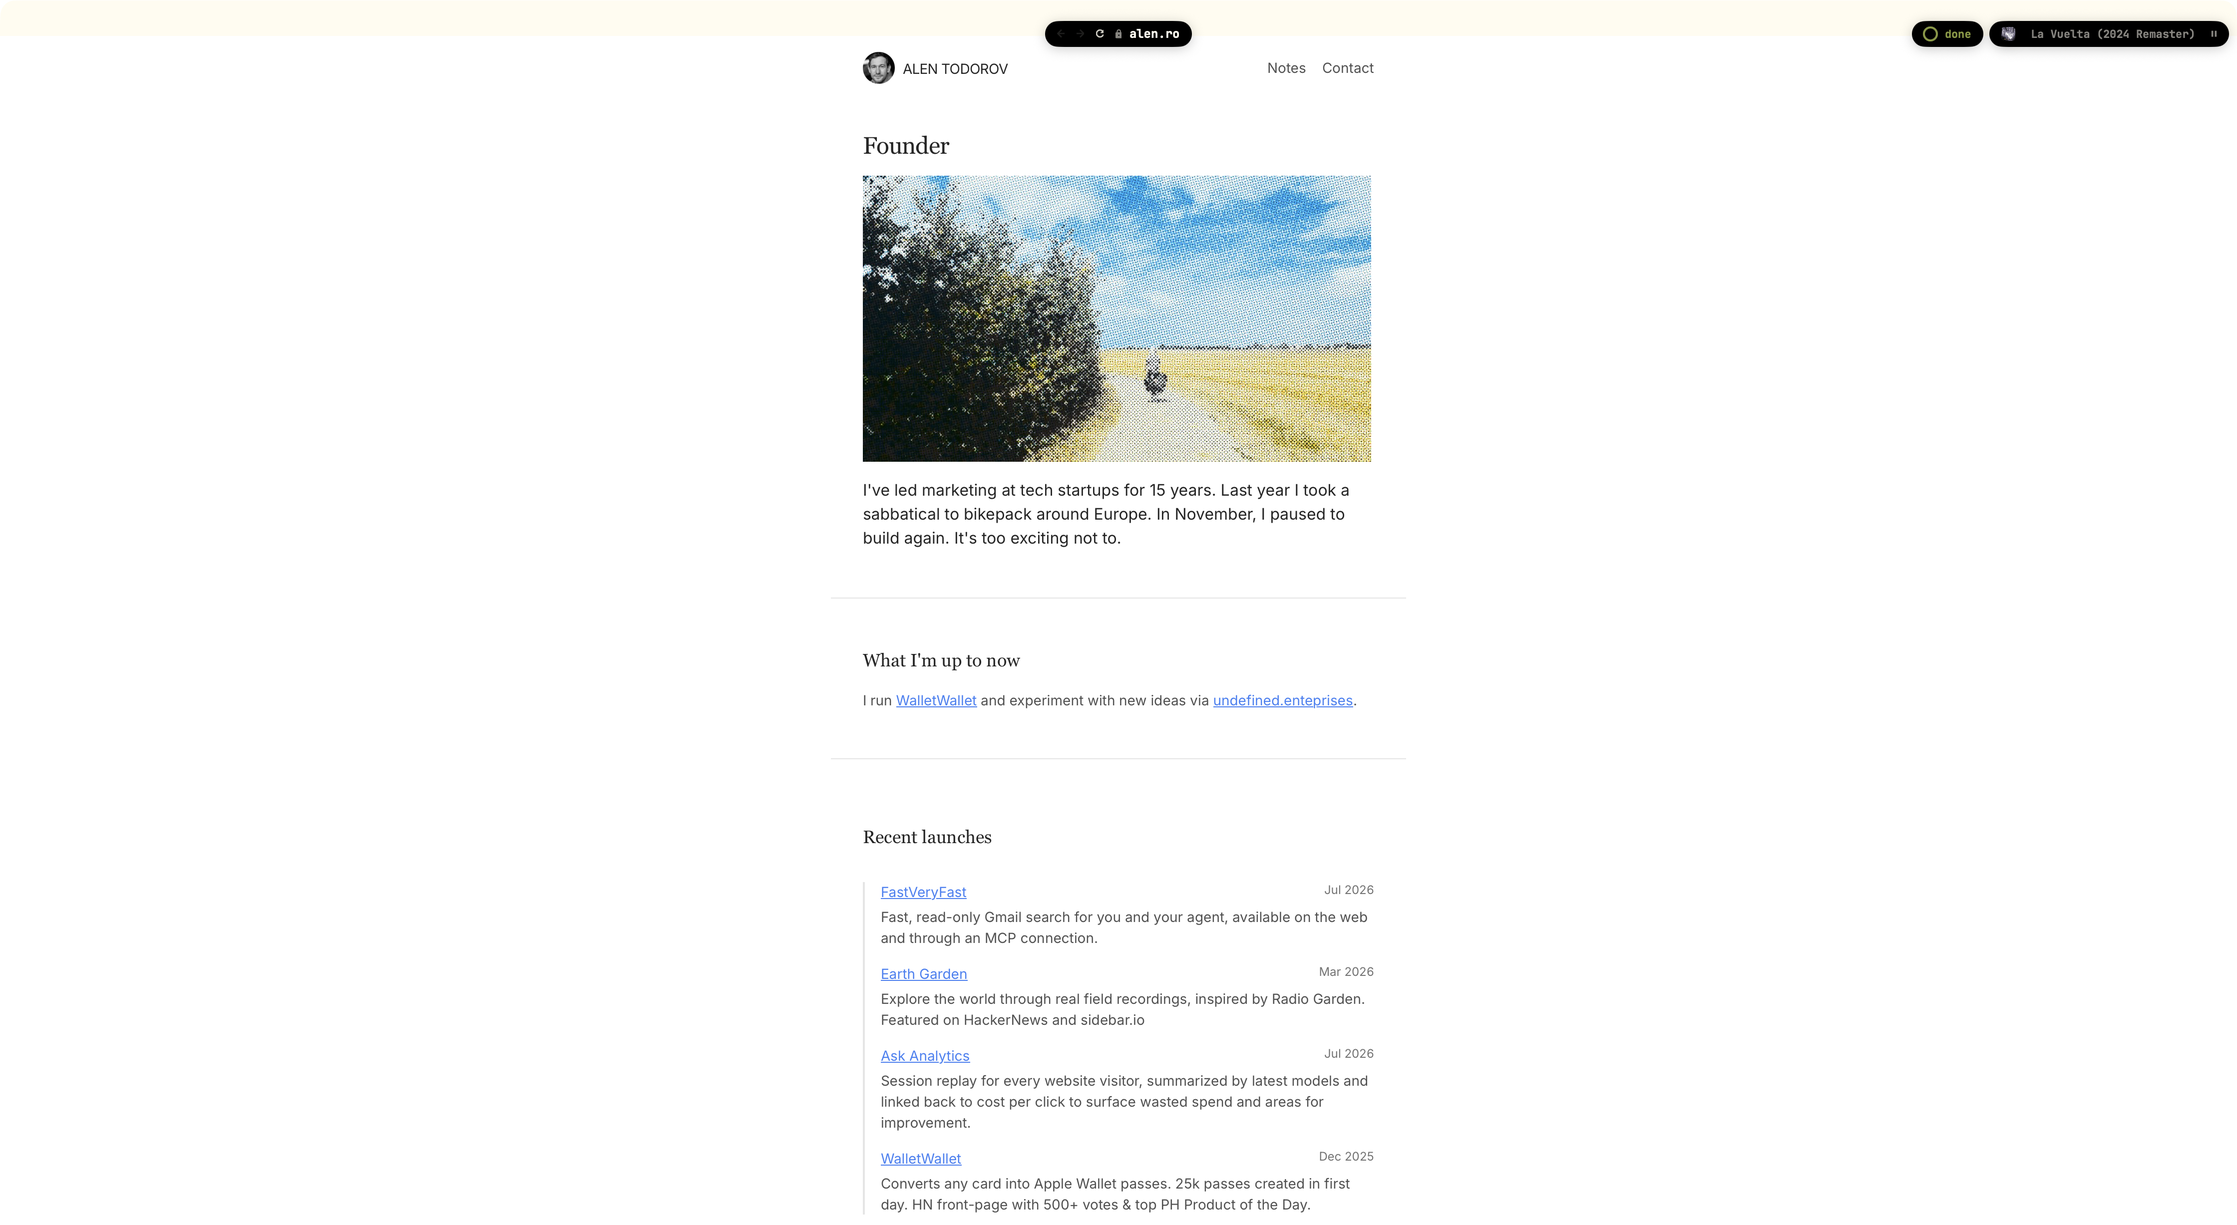
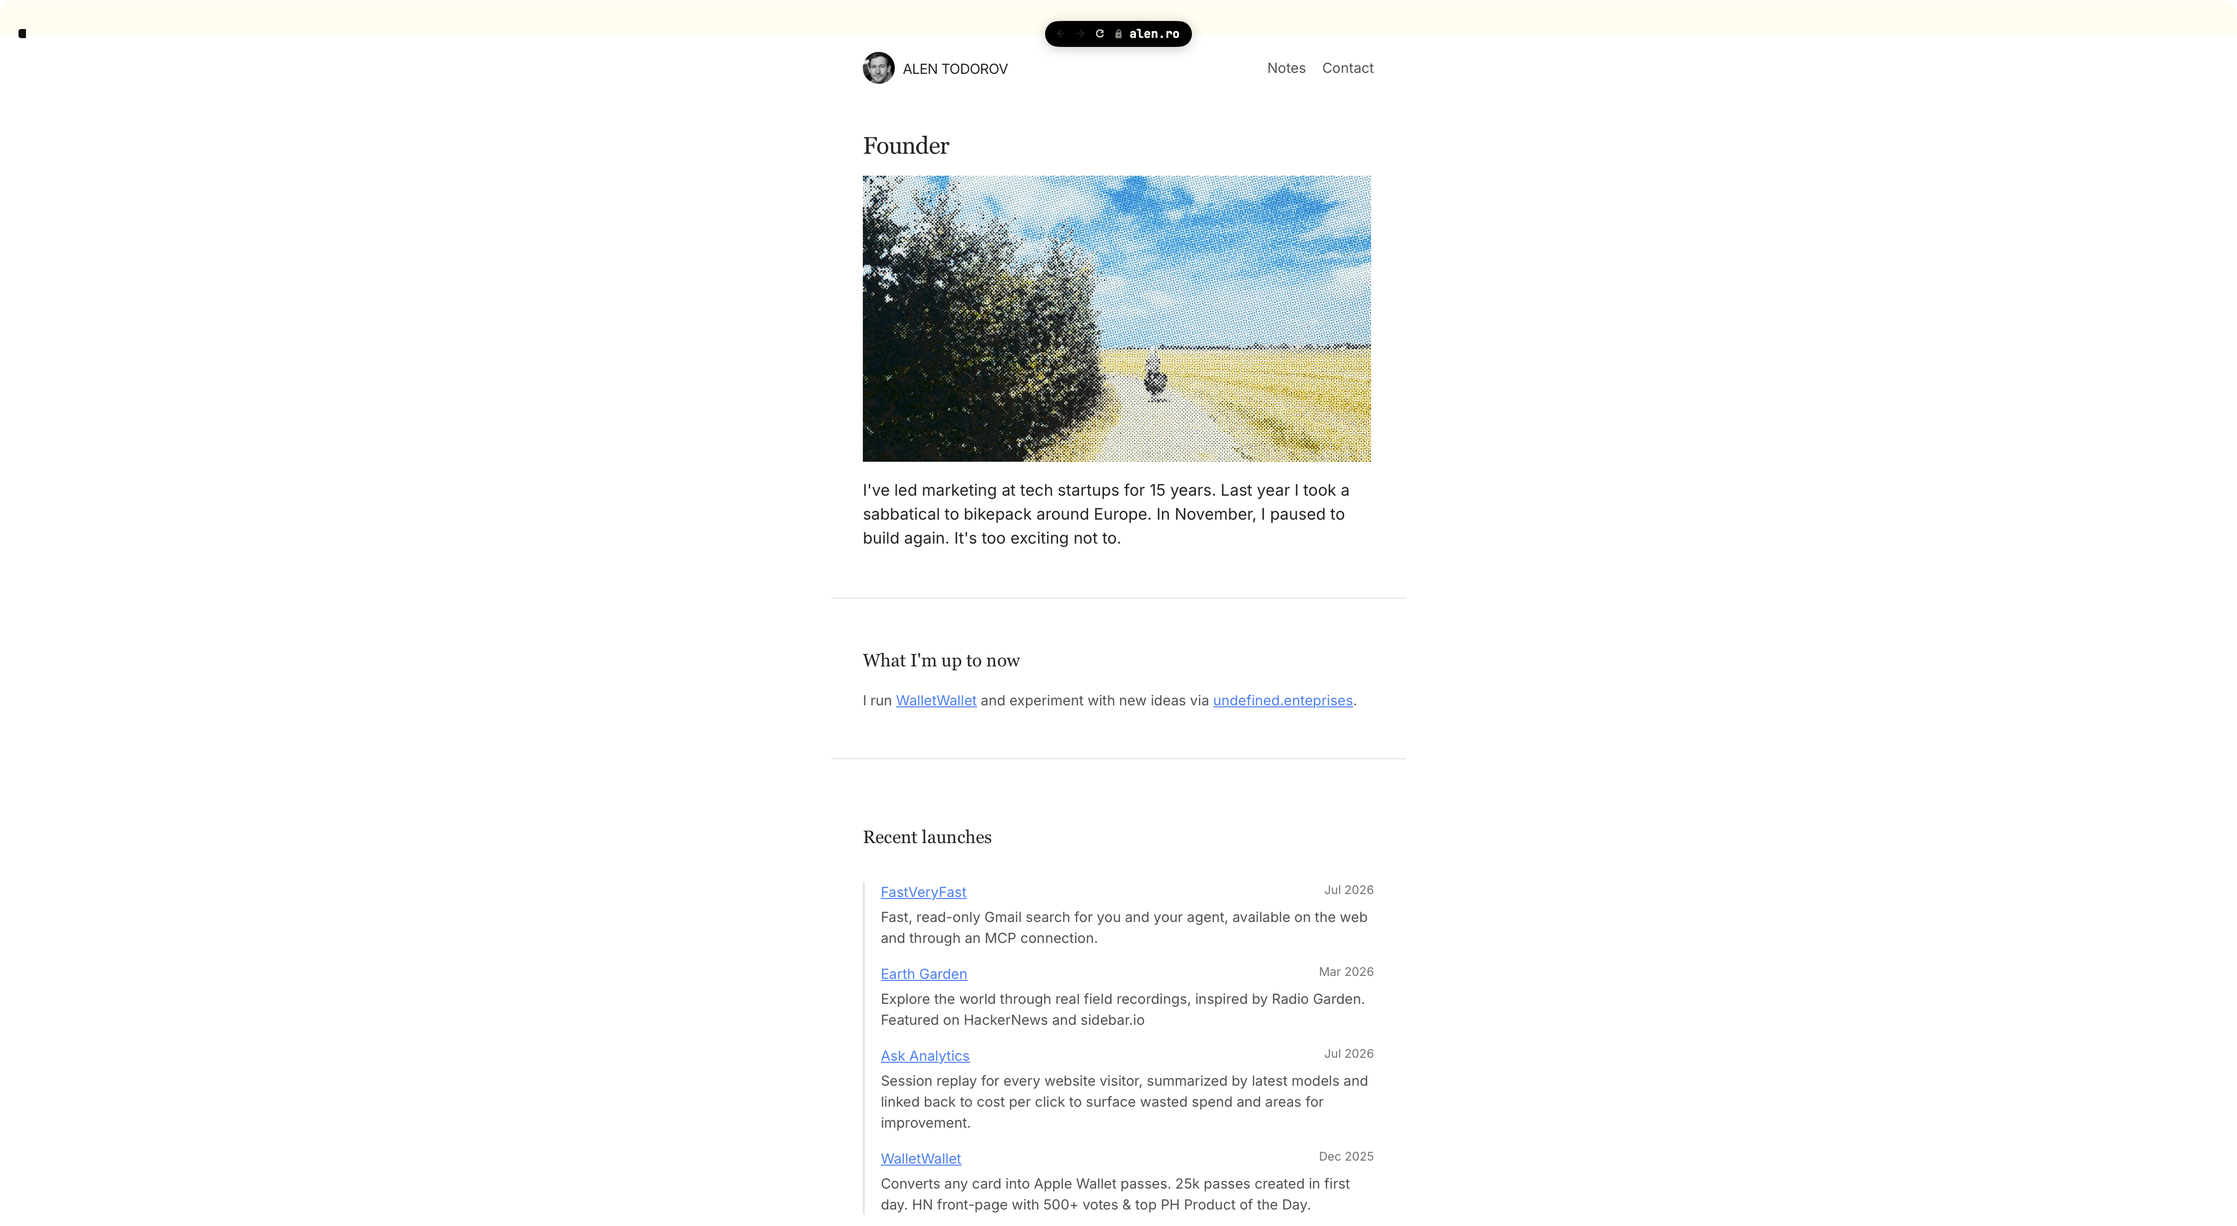
Drop the timer and now-playing pills; every window on AeroSpace workspace 8
Remove Live.swift (timer file and mpv IPC polling) and the two status pills,
leaving the download pill. New windows are moved to workspace 8 with focus
following and made fullscreen there (AppDelegate.place). Re-shot screenshots
01-04 and 15 for the tab numbers and the new placement; dropped the timer shots.
HANDOFF.md: git note, placement, the dark-page strip question.

diff --git a/src/main.swift b/src/main.swift
@@ -7,6 +7,8 @@ import WebKit
 @MainActor
 final class AppDelegate: NSObject, NSApplicationDelegate {
     static var shared: AppDelegate!
+    /// The AeroSpace workspace every Casa window lives on
+    static let workspace = "8"
     private(set) var windows: [BrowserWindow] = []
     private var pendingURLs: [URL] = []
     private var launched = false
@@ -17,7 +19,6 @@ final class AppDelegate: NSObject, NSApplicationDelegate {
         buildMenu()
         KeySwap.shared.start()   // physical Cmd is cmd again while Casa is in front
         _ = History.shared
-        _ = Live.shared
         if !pendingURLs.isEmpty {
             let w = newWindow(private: false, urls: pendingURLs)
             w.makeKeyAndOrderFront(nil)
@@ -56,7 +57,7 @@ final class AppDelegate: NSObject, NSApplicationDelegate {
     func newWindow(private isPrivate: Bool, urls: [URL]? = nil, frame: NSRect? = nil) -> BrowserWindow {
         let w = BrowserWindow(isPrivate: isPrivate, frame: frame)
         windows.append(w)
-        fullscreen(w)
+        place(w)
         if let urls, !urls.isEmpty {
             for u in urls { w.newTab(url: u, select: false) }
             w.select(0)
@@ -66,21 +67,19 @@ final class AppDelegate: NSObject, NSApplicationDelegate {
         return w
     }
 
-    /// Every window is fullscreen (AeroSpace's, so it stays on its workspace and alt-f still toggles
-    /// it). AeroSpace needs a moment to pick up a new window, so ask again if the first try was early.
-    private func fullscreen(_ w: BrowserWindow, attempt: Int = 0) {
+    /// Every window goes to workspace 8 (focus follows it, so SketchyBar and the screen switch too)
+    /// and is fullscreen there (AeroSpace's, so alt-f still toggles it). AeroSpace needs a moment to
+    /// pick up a new window, so ask again if the first try was early.
+    private func place(_ w: BrowserWindow, attempt: Int = 0) {
         DispatchQueue.main.asyncAfter(deadline: .now() + (attempt == 0 ? 0.4 : 0.8)) { [weak self, weak w] in
             guard let w else { return }
-            guard w.isVisible else { if attempt < 4 { self?.fullscreen(w, attempt: attempt + 1) }; return }
-            let p = Process()
-            p.executableURL = URL(fileURLWithPath: "/opt/homebrew/bin/aerospace")
-            p.arguments = ["fullscreen", "on", "--window-id", String(w.windowNumber)]
-            p.standardOutput = FileHandle.nullDevice
-            p.standardError = FileHandle.nullDevice
-            p.terminationHandler = { proc in
-                if proc.terminationStatus != 0, attempt < 4 { DispatchQueue.main.async { self?.fullscreen(w, attempt: attempt + 1) } }
+            guard w.isVisible else { if attempt < 4 { self?.place(w, attempt: attempt + 1) }; return }
+            let id = String(w.windowNumber)
+            let retry = { if attempt < 4 { self?.place(w, attempt: attempt + 1) } }
+            aerospace(["move-node-to-workspace", "--focus-follows-window", "--window-id", id, AppDelegate.workspace]) { ok in
+                guard ok else { retry(); return }
+                aerospace(["fullscreen", "on", "--window-id", id]) { ok in if !ok { retry() } }
             }
-            try? p.run()
         }
     }
 
@@ -275,6 +274,21 @@ final class AppDelegate: NSObject, NSApplicationDelegate {
         default: NSLog("Casa debug: unknown %@", cmd)
         }
     }
+}
+
+/// Runs an AeroSpace command and reports on the main thread whether it succeeded
+@MainActor
+func aerospace(_ args: [String], done: @escaping @MainActor (Bool) -> Void) {
+    let p = Process()
+    p.executableURL = URL(fileURLWithPath: "/opt/homebrew/bin/aerospace")
+    p.arguments = args
+    p.standardOutput = FileHandle.nullDevice
+    p.standardError = FileHandle.nullDevice
+    p.terminationHandler = { proc in
+        let ok = proc.terminationStatus == 0
+        DispatchQueue.main.async { MainActor.assumeIsolated { done(ok) } }
+    }
+    do { try p.run() } catch { done(false) }
 }
 
 MainActor.assumeIsolated {

diff --git a/src/Chrome.swift b/src/Chrome.swift
@@ -1,25 +1,10 @@
 // The chrome, in SwiftUI: the pill (host, tab count; back / forward / reload on hover), the find
-// field in its place, the timer / now-playing / download pills on the right, and the overlays:
+// field in its place, the download pill on the right, and the overlays:
 // the palette (one search over tabs, history, URLs and commands) and the tab switcher.
 import AppKit
 import SwiftUI
 
 // MARK: Pieces
-
-struct MiniRing: View {
-    var fraction: Double
-    var size: CGFloat = 13
-    var color: Color = Theme.paper
-    var track: Color = Theme.paper.opacity(0.2)
-    var body: some View {
-        ZStack {
-            Circle().stroke(track, lineWidth: 2)
-            Circle().trim(from: 0, to: max(0, min(1, fraction)))
-                .stroke(color, style: StrokeStyle(lineWidth: 2, lineCap: .round))
-                .rotationEffect(.degrees(-90))
-        }.frame(width: size, height: size)
-    }
-}
 
 struct Tile: View {
     let host: String
@@ -112,11 +97,10 @@ struct KeyField: NSViewRepresentable {
     }
 }
 
-// MARK: The strip: pill in the middle, status pills on the right
+// MARK: The strip: pill in the middle, the download pill on the right
 
 struct StripView: View {
     @ObservedObject var state: WindowState
-    @ObservedObject var live = Live.shared
 
     var body: some View {
         GeometryReader { geo in
@@ -139,7 +123,7 @@ struct StripView: View {
                         .padding(.top, 5).padding(.leading, 12)
                         .frame(maxWidth: .infinity, alignment: .leading)
                 }
-                StatusPills(state: state, live: live, narrow: narrow)
+                StatusPills(state: state, narrow: narrow)
                     .padding(.top, 5).padding(.trailing, 8)
                     .frame(maxWidth: .infinity, alignment: .trailing)
             }
@@ -257,7 +241,6 @@ struct FindPill: View {
 
 struct StatusPills: View {
     @ObservedObject var state: WindowState
-    @ObservedObject var live: Live
     let narrow: Bool
 
     var body: some View {
@@ -269,26 +252,6 @@ struct StatusPills: View {
                     if !narrow { Text(d.name).font(Theme.mono(11)).foregroundStyle(Theme.paper).lineLimit(1).frame(maxWidth: 160) }
                 }
                 .onTapGesture { state.window?.revealDownload() }
-            }
-            if let t = live.timer {
-                BlackPill {
-                    MiniRing(fraction: t.fraction, color: t.done ? Theme.green : t.paused ? Theme.grey : Theme.paper)
-                    Text(t.done ? "done" : clockString(t.left)).font(Theme.mono(11)).monospacedDigit()
-                        .foregroundStyle(t.done ? Theme.green : t.paused ? Theme.grey : Theme.paper)
-                }
-            }
-            if let m = live.music {
-                BlackPill {
-                    if let c = live.cover {
-                        Image(nsImage: c).resizable().aspectRatio(contentMode: .fill)
-                            .frame(width: 14, height: 14).clipShape(RoundedRectangle(cornerRadius: 3))
-                    } else {
-                        Text(Theme.music).font(Theme.mono(11)).foregroundStyle(Theme.grey)
-                    }
-                    if !narrow { Text(m.title).font(Theme.mono(11)).foregroundStyle(m.paused ? Theme.grey : Theme.paper).lineLimit(1).frame(maxWidth: 180) }
-                    if m.paused { Text(Theme.pause).font(Theme.mono(10)).foregroundStyle(Theme.grey) }
-                }
-                .onTapGesture { live.togglePause() }
             }
         }
     }

diff --git a/src/Theme.swift b/src/Theme.swift
@@ -33,9 +33,9 @@ enum Theme {
 
     /// Nerd Font (Material Design) glyphs
     static let lock = "\u{F033E}", search = "\u{F0349}", back = "\u{F004D}", forward = "\u{F0054}", reload = "\u{F0450}"
-    static let play = "\u{F040A}", pause = "\u{F03E4}", close = "\u{F0156}", chevronLeft = "\u{F0141}", chevronRight = "\u{F0142}"
+    static let close = "\u{F0156}", chevronLeft = "\u{F0141}", chevronRight = "\u{F0142}"
     static let history = "\u{F02DA}", web = "\u{F059F}", tab = "\u{F0B4A}", download = "\u{F01DA}", incognito = "\u{F02FA}"
-    static let command = "\u{F0633}", music = "\u{F0387}", terminal = "\u{F0489}", stop = "\u{F04DB}"
+    static let command = "\u{F0633}", terminal = "\u{F0489}", stop = "\u{F04DB}"
 
     /// A stable colour for a host, for the letter tiles that stand in for favicons
     static func tileColor(for host: String) -> Color {
@@ -54,19 +54,10 @@ enum Paths {
     static let zoom = state + "/zoom.json"
     static let downloads = home + "/Downloads"
     static let projects = home + "/projects"
-    static let mpvSocket = home + "/.local/state/yt/mpv.sock"
-    static let tracks = home + "/.local/state/yt/tracks.json"
-    static let timer = home + "/.local/state/timer/current.json"
 
     static func ensureState() {
         try? FileManager.default.createDirectory(atPath: state, withIntermediateDirectories: true)
     }
-}
-
-/// "3:05" or "1:02:14"
-func clockString(_ t: Double) -> String {
-    let s = Int(t.rounded(.up))
-    return s >= 3600 ? String(format: "%d:%02d:%02d", s / 3600, s / 60 % 60, s % 60) : String(format: "%d:%02d", s / 60, s % 60)
 }
 
 /// The host as the pill shows it: no "www."

diff --git a/HANDOFF.md b/HANDOFF.md
@@ -9,9 +9,10 @@ commit and push only when told. The app builds to `~/Applications/Casa.app`, bun
 Design **direction A, "Notch"**: no chrome except what floats in the page's top 36pt strip
 (`WKWebView.obscuredContentInsets`, macOS 26): a black pill at the top centre with lock, host and
 `3/7`; hover widens it to back / forward / reload and the path; cmd-L turns it into the palette, cmd-F
-into find. Tab numbers sit top-left in SketchyBar's workspace style. Timer and now-playing pills sit top
-right, only while live. Tabs are keyboard-first; ctrl-tab held shows the switcher. One window = one tab
-group; every window is AeroSpace-fullscreen on its workspace. A libghostty console (zsh) slides up as a
+into find. Tab numbers sit top-left in SketchyBar's workspace style. A download pill sits top right
+while a download runs. (The timer and now-playing pills from the mockups were dropped on 2026-11-09;
+the mockups still show them.) Tabs are keyboard-first; ctrl-tab held shows the switcher. One window = one tab
+group; every window is moved to AeroSpace workspace 8 and made fullscreen there (focus follows it). A libghostty console (zsh) slides up as a
 split under the page on cmd-J / cmd-enter / ctrl-`. Calm and useful; nothing "fun but pointless".
 
 - `PLAN.md` — the three directions, the chosen one, keyboard map, v1 / later.
@@ -22,13 +23,12 @@ split under the page on cmd-J / cmd-enter / ctrl-`. Calm and useful; nothing "fu
 
 | file | what |
 |---|---|
-| `main.swift` | `AppDelegate`: windows, the whole menu (every shortcut lives here), session save/restore, URL open (http/https registered in Info.plist but Casa is **not** set as default browser), `fullscreen(_:)` (runs `/opt/homebrew/bin/aerospace fullscreen on --window-id N` for each new window, 4 retries), the `CASA_DEBUG` channel. Starts `KeySwap`. |
+| `main.swift` | `AppDelegate`: windows, the whole menu (every shortcut lives here), session save/restore, URL open (http/https registered in Info.plist but Casa is **not** set as default browser), `place(_:)` (runs `aerospace move-node-to-workspace --focus-follows-window --window-id N 8` then `aerospace fullscreen on --window-id N` for each new window, 4 retries; `AppDelegate.workspace` is the "8"), the `CASA_DEBUG` channel. Starts `KeySwap`. |
 | `KeySwap.swift` | CGEvent tap (`.cghidEventTap`, head insert) active only while Casa is frontmost. Alen's Karabiner swaps cmd/alt globally so physical Cmd drives AeroSpace; this swaps them back inside Casa: generic flags, device-specific bits, and modifier keycodes 55/58, 54/61 on flagsChanged. So in Casa physical Cmd = cmd (Chrome-like) and physical Option = alt (reaches AeroSpace). Needs Accessibility: prompts at launch, polls `AXIsProcessTrusted` every 2s until granted. |
 | `BrowserWindow.swift` | `WindowState` (tabs, mode, palette rows, find, download pill, console flag) and `BrowserWindow: NSWindow` (widgets' chromeless window: hidden transparent title bar, traffic lights hidden, min 480×320). Holds an `NSSplitView` (page over console), the strip hosting view, the overlay hosting view (palette / switcher), all tab actions, and the `@objc` menu actions. |
 | `Chrome.swift` | SwiftUI: `StripView` (progress line, `TabNumbers`, `PillView`, `FindPill`, `StatusPills`), `OverlayView` (`PaletteView`, `SwitcherView`), `KeyField` (an AppKit text field so arrows / enter / esc are reliable). `TabNumbers`: numbers top-left, current tab = U+F14FB filled square, click selects, hover shows the title, hidden while palette or switcher is open. |
 | `Tab.swift` | One `WKWebView` per tab: KVO (title, url, progress, canGoBack…), navigation / UI delegates (popups → new tab, JS dialogs → sheets), `WKDownload` to `~/Downloads`, find with a JS-counted "n/m", zoom per host, Safari-like UA. Private windows use `WKWebsiteDataStore.nonPersistent()`. |
 | `Console.swift` | libghostty. `GhosttyRuntime` (init, config from `~/.config/ghostty/config` via libghostty's loader, app, runtime callbacks: wakeup, action, clipboard, close). `TerminalView: NSView, NSTextInputClient`, a cut-down port of Ghostty's `SurfaceView_AppKit.swift`: the core attaches its own Metal layer; the view forwards size, scale, focus, keys, mouse, scroll, copy/paste. Shell exit closes the console; cmd-click links open as Casa tabs; menu shortcuts beat Ghostty's own cmd keybinds. |
-| `Live.swift` | Timer (`~/.local/state/timer/current.json`) and mpv (`~/.local/state/yt/mpv.sock` JSON IPC + `tracks.json` for title/cover), polled every 0.5s/1s. |
 | `History.swift` | `~/.local/state/casa/`: `history.jsonl`, `session.json`, `zoom.json`. |
 | `Theme.swift` | Flexoki colours, font, Nerd Font glyphs, paths. |
 
@@ -78,10 +78,9 @@ layer 0) or `aerospace list-windows --all | grep Casa`, then
     screencapture -l<windowID> -o -x out.png
 
 For a narrow tile: `aerospace layout floating --window-id N`, `frame:200,100,640,800`, then
-`aerospace layout tiling --window-id N`. Test windows land on the current workspace; quit when done.
-A timer for the pills: `~/.local/bin/timer 1` / `timer cancel` (it also opens the Timer Widget).
-Don't change the music mpv is playing. The debug path sets state directly, so it doesn't exercise
-real key events.
+`aerospace layout tiling --window-id N`. Every window lands on workspace 8 and focuses it (switch back
+with `aerospace workspace N`); quit when done.
+The debug path sets state directly, so it doesn't exercise real key events.
 
 ## Keyboard map
 
@@ -94,7 +93,7 @@ alt-* keys; `~/.aerospace.toml` owns `alt-*`, `alt-shift-*`, `alt-cmd-*`, `alt-c
 | cmd-K | palette, tabs + `>` commands |
 | cmd-T, cmd-shift-enter | new tab (blank, palette opens) |
 | cmd-W / cmd-shift-W / cmd-shift-T | close tab / close window / reopen closed tab |
-| cmd-N / cmd-shift-N | new window / private window (both AeroSpace-fullscreen on this workspace) |
+| cmd-N / cmd-shift-N | new window / private window (both on workspace 8, AeroSpace-fullscreen) |
 | cmd-1…8, cmd-9 | tab N, last tab |
 | ctrl-tab / ctrl-shift-tab | next / previous; held, the switcher stays open until ctrl is released |
 | cmd-shift-] / cmd-shift-[ | next / previous tab |
@@ -112,8 +111,9 @@ alt-* keys; `~/.aerospace.toml` owns `alt-*`, `alt-shift-*`, `alt-cmd-*`, `alt-c
 
 **Done and screenshot-tested** (`screenshots/01`–`27`): launch with palette, browsing, pill rest and
 hover, palette (address, tabs, commands), switcher, find with count, new / close / reopen tab, private
-window, timer pill running / done / idle, music pill, download pill, console open / command / resized /
-closed / shell exit, narrow 640 tile, session restore.
+window, download pill, console open / command / resized / closed / shell exit, narrow 640 tile, session
+restore. `01`–`04` and `15` were re-shot on 2026-11-09 with the tab numbers, workspace-8 fullscreen and no
+widget pills; the music pill still shows in some of the other shots from before the widgets were dropped.
 
 **Untested or caveated**
 
@@ -121,8 +121,10 @@ closed / shell exit, narrow 640 tile, session restore.
   Verify: physical Cmd-T opens a tab, physical Cmd-L the palette, physical Option-1 switches workspace.
 - The menu shortcuts, ctrl-tab-held switcher and console typing were only driven through the debug
   channel, not real key events. Give them a hands-on pass.
-- `TabNumbers` and AeroSpace fullscreen-on-create were added after the screenshot run; re-shoot
-  `01`–`04` and `15` for them.
+- **Dark pages** (see `04-three-tabs.png`, ghostty.org): the 36pt strip shows the web view's
+  `underPageBackgroundColor` (paper), not the page, so a dark page gets a paper band on top and the
+  ink tab numbers sit on its edge. Needs a design call: tint the strip from the page (`WKWebView.themeColor`
+  / a sampled colour) or switch the numbers to paper over dark pages. Not changed.
 - Find's "n/m" counts page text, so hidden text can inflate it.
 - Web Inspector uses WebKit's private `_inspector`; right-click → Inspect Element is the fallback.
 - The console auto-approves Ghostty's clipboard confirmations; Ghostty's own cmd keybinds (cmd-K
